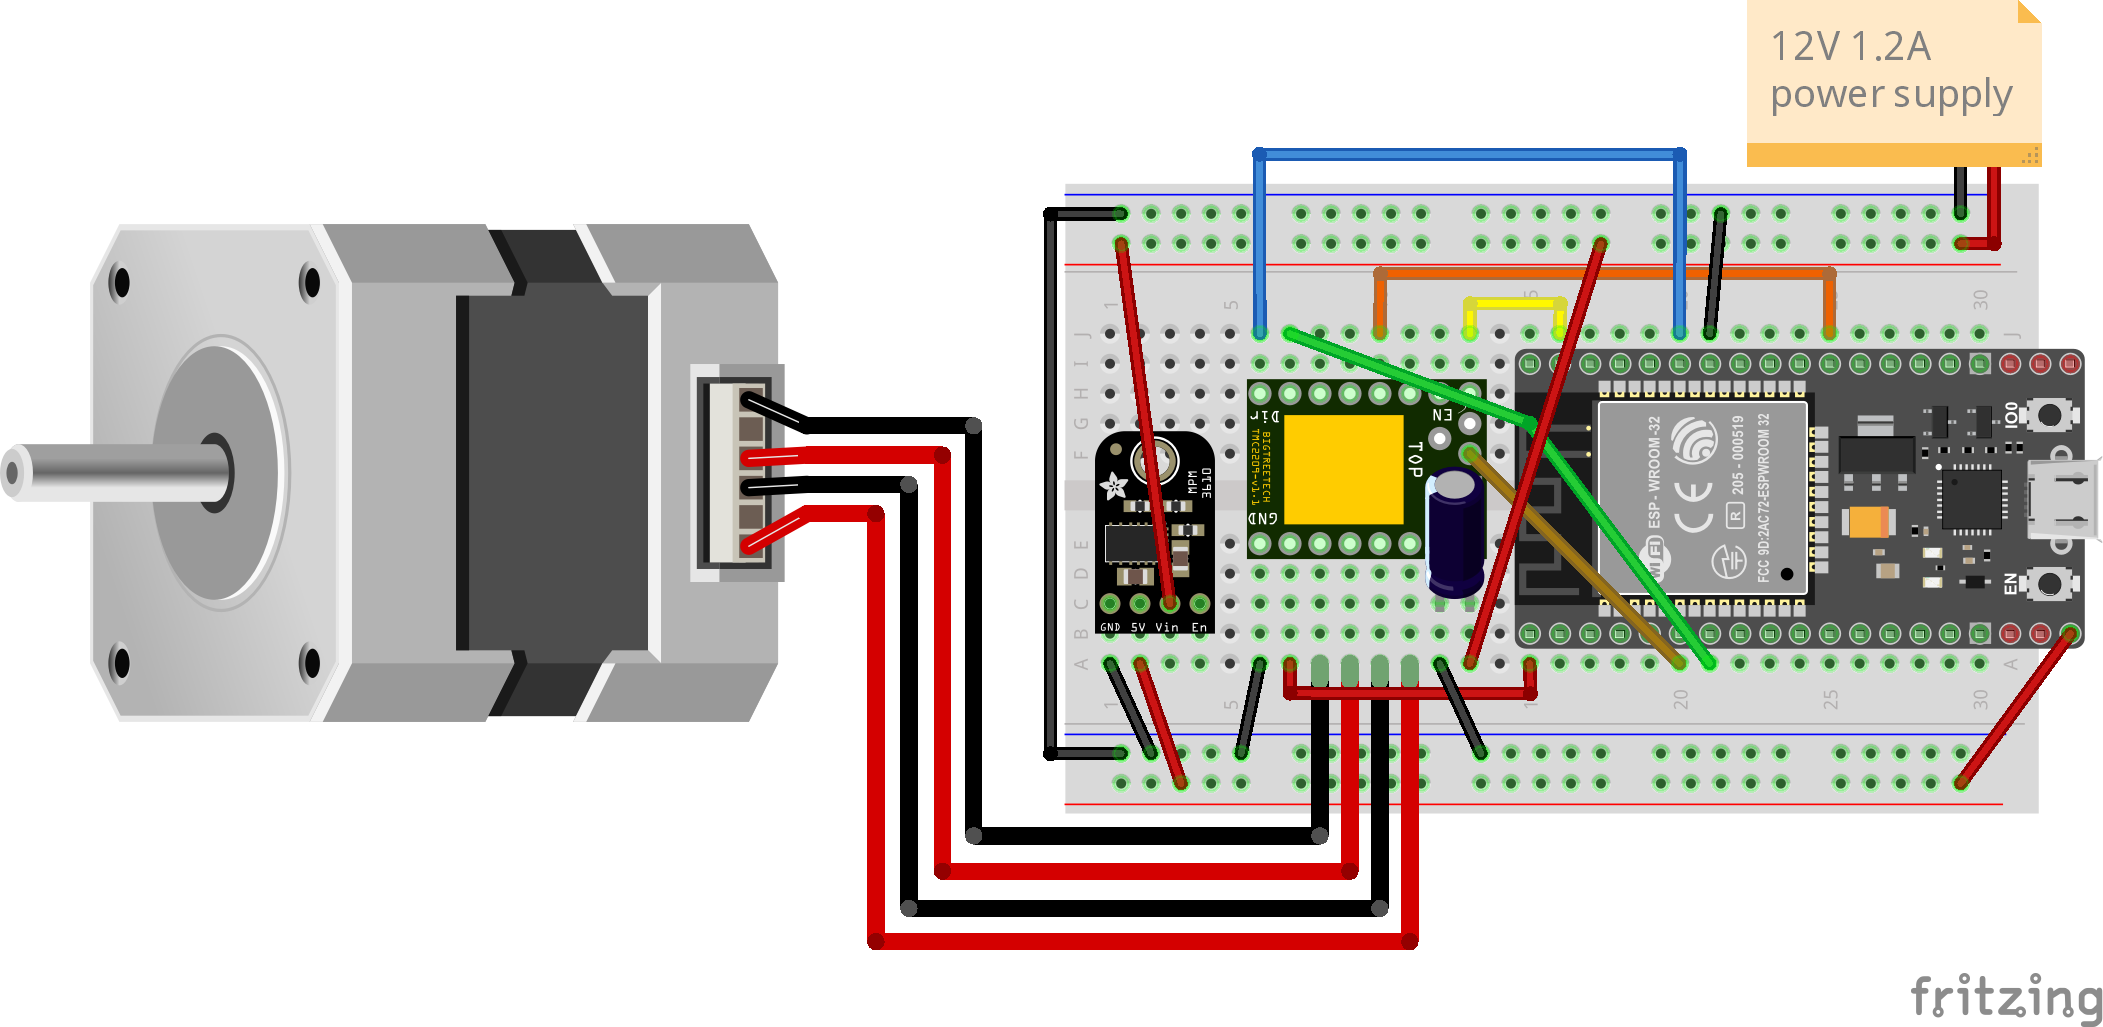
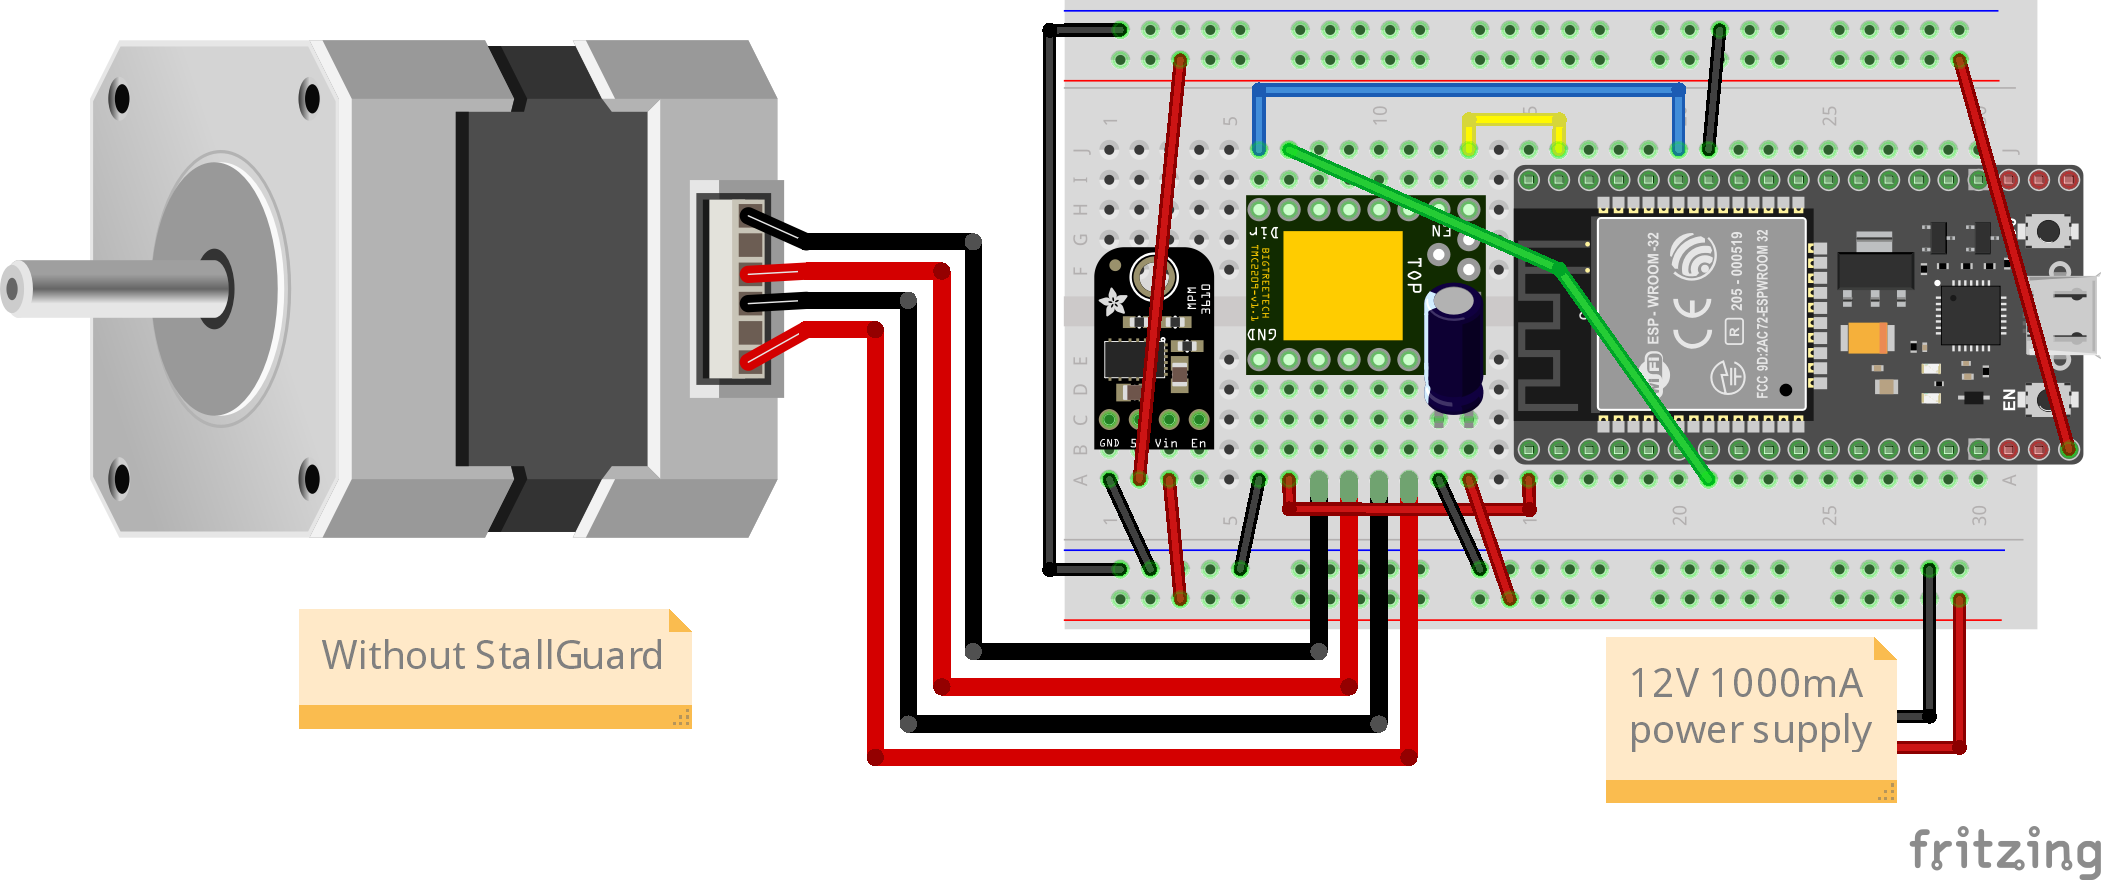
Updated readme and adde resources

diff --git a/README.md b/README.md
@@ -4,64 +4,74 @@ is a rollershutter, blind, shade, window, etc. in [**Home Assistant**](https://w
 cover provides the ability to control your covers via your choice of smarthome hub/system (Alexa, HA, etc.). Currently,
 the ESP32 motorcover interfaces via WiFi/MQTT.
 
-I've seen DIY motorized roller shade/blinds or motorized tilting control for venetian blinds around but not DIY
-motorized honeycomb cellular shade. Commercial available motorized honeycomb cellular shades starts around $300-$400
-per unit but the quality in terms of the speed, noise level, build material, and user expreience is below average.
-So I have decided to retrofit a motor in my cordless honeycomb shades.
+Commercial available motorized honeycomb cellular shades start around $250-$400 per unit but the quality in terms of
+the speed, noise level, build material, and user expreience are below my expectations. On the other hand, high end
+honeycomb shades are too expensive so I've decided to retrofit a motor in my existing cordless honeycomb shades. I've
+seen DIY projects for motorized roller shade/blind or tilting control for venetian blind but not for honeycomb shade.
+I believe it's because honeycomb shade is a heavier cover and, therefore, more challening to lift. This project focuses
+on using powerful (geared) NEMA motors and silent stepper driver TMC2209 to move heavier covers swiftly and silently
+within a reasonable budget.
 
 
 ## Parts List
-The exact parts I used to make 5 motorized shades. It was ~$92 per motorcovers but if you own a 3D printer, some
-wires and screws, it will cost you ~$80 per unit.
+The exact parts I used to make 5 motorized shades. It was **~$92/unit** but if you own a 3D printer, some wires and
+screws, the cost can be lowered to **~$80/unit**. Since I need the motor to fit inside the top compartment of the 
+shades, I had to get the smaller NEMA 11 stepper motors with the 5.18:1 planetary gears to have enough power to lift
+the shades. If you don't need to conceal the motor, you can get bigger and cheaper motors on Amazon for $10-$20/unit +
+free shipping. Note the UART version of the TMC2209 stepper driver comes with UART enabled already so you don't need to
+manually solder the pads underneath.
 
-|Name                         |Cost (incl. tax)|Shipping|Subtotal|Links  |
-|-----------------------------|---------------:|-------:|-------:|:-----:|
-|NEMA 11 bipolar stepper motor|          $33.34|  $33.12| $199.82|[[Stepperonline]](https://www.omc-stepperonline.com/nema-11-stepper-motor-bipolar-l-45mm-w-gear-ratio-5-1-planetary-gearbox-11hs18-0674s-pg5)|
-|ESP32 node mcu               |          $12.10|        |  $60.50|[[Amazon]](https://www.amazon.com/dp/B0718T232Z)|
-|Buck convertor               |           $5.95|   $7.99|  $37.74|[[Mouser]](https://www.mouser.com/ProductDetail/485-4739)|
-|TMC2209 UART stepper driver  |          $34.12|        |  $34.12|[[Amazon]](https://www.amazon.com/gp/product/B07YW7BM68)|
-|Coupling                     |          $14.96|        |  $14.96|[[Amazon]](https://www.amazon.com/gp/product/B07MPFJGZW)|
-|100uF capacitor              |           $6.82|        |   $6.82|[[Amazon]](https://www.amazon.com/gp/product/B07Y3F194W)|
-|Solderless breadboard        |           $6.59|        |   $6.59|[[Amazon]](https://www.amazon.com/gp/product/B07LF71ZTS)|
-|Power supply                 |          $17.51|        |  $35.02|[[Amazon]](https://www.amazon.com/gp/product/B07N18XN84)|
-|Wires                        |          $14.86|        |  $14.86|[[Amazon]](https://www.amazon.com/gp/product/B07Z4W6V6R)|
-|Mounting bracket (Shapeways) |          $30.21|   $9.99|  $40.20|[[File]](resources/mounting_bracket_v3.stl)[[Mirrored File]](resources/mounting_bracket_v3_mirrored.stl)|
-|Screws                       |          $10.00|        |     $10|       |
-|Total                        |                |        | $460.63|       |
+|Item                         |Cost (incl. tax)|Shipping|Subtotal   |Links  |
+|-----------------------------|---------------:|-------:|----------:|:-----:|
+|NEMA 11 bipolar stepper motor|          $33.34|  $33.12|    $199.82|[[Stepperonline]](https://www.omc-stepperonline.com/nema-11-stepper-motor-bipolar-l-45mm-w-gear-ratio-5-1-planetary-gearbox-11hs18-0674s-pg5)|
+|ESP32 node mcu               |          $12.10|        |     $60.50|[[Amazon]](https://www.amazon.com/dp/B0718T232Z)|
+|Buck convertor               |           $5.95|   $7.99|     $37.74|[[Mouser]](https://www.mouser.com/ProductDetail/485-4739)|
+|TMC2209 UART stepper driver  |          $34.12|        |     $34.12|[[Amazon]](https://www.amazon.com/gp/product/B07YW7BM68)|
+|Coupling                     |          $14.96|        |     $14.96|[[Amazon]](https://www.amazon.com/gp/product/B07MPFJGZW)|
+|100uF capacitor              |           $6.82|        |      $6.82|[[Amazon]](https://www.amazon.com/gp/product/B07Y3F194W)|
+|Solderless breadboard        |           $6.59|        |      $6.59|[[Amazon]](https://www.amazon.com/gp/product/B07LF71ZTS)|
+|Power supply                 |          $17.51|        |     $35.02|[[Amazon]](https://www.amazon.com/gp/product/B07N18XN84)|
+|Wires                        |          $14.86|        |     $14.86|[[Amazon]](https://www.amazon.com/gp/product/B07Z4W6V6R)|
+|Mounting bracket (Shapeways) |          $30.21|   $9.99|     $40.20|[[File]](resources/mounting_bracket_v3.stl)[[Mirrored File]](resources/mounting_bracket_v3_mirrored.stl)|
+|Screws                       |          $10.00|        |        $10|       |
+|Total                        |                |        |**$460.63**|       |
 
 
 ## Usage
 ### Connections
-![schematic](images/esp32_motorcover.png)
+You can use this without StallGuard 4. SG4 is a TMC2209 feature that enables the stepper motor to stop in an instance
+when it encounters a resistance. SG4 is convenient for setting the minimum position for the shades, i.e. sensorless homing.
+It might also be useful for protecting pets/children in the use case of motorized windows.
+![stallguard](images/esp32_motorcover.png)
+![no_stallguard](images/esp32_motorcover.png)
 
 ### Flashing firmware
 #### Dependencies
-You will need to add teemuatlut/TMCStepper@^0.7.3, knolleary/PubSubClient@^2.8,	gin66/FastAccelStepper@^0.27.5 to your project.
+You will need to add [TMCStepper](https://github.com/teemuatlut/TMCStepper), [PubSubClient](https://github.com/knolleary/pubsubclient),	[FastAccelStepper](https://github.com/gin66/FastAccelStepper) to your project.
 
 ### WiFi and MQTT
 https://www.home-assistant.io/integrations/cover.mqtt/
-MQTT commands
-0~100 percentage of open position; 0 -> open, 100 -> close
--1 stop
--2 open
--3 close
--4 set min position
--5 set max position
--99 reboot system
+#### MQTT commands
+* 0~100 percentage of position; 0 -> open, 100 -> close
+* -1 stop
+* -2 open
+* -3 close
+* -4 set min position
+* -5 set max position
+* -99 reboot system
 
-### My use case
+### My Use Case
 #### Spring dampening
 
 ## Resources
 ### TMC2209 Info
-TMC2209 datasheet: https://www.trinamic.com/fileadmin/assets/Products/ICs_Documents/TMC2209_Datasheet_V103.pdf
-BigTreeTech TMC2209 schematic: https://github.com/bigtreetech/BIGTREETECH-TMC2209-V1.2/blob/master/Schematic/TMC2209-V1.2.pdf
-BigTreeTech TMC2209 manual: https://github.com/bigtreetech/BIGTREETECH-TMC2209-V1.2/blob/master/manual/TMC2209-V1.2-manual.pdf
-How to connect TMC2209 for UART (stallguard): https://forum.arduino.cc/t/using-a-tmc2209-silent-stepper-motor-driver-with-an-arduino/666992/14
-Explaning TMC2209 settings: https://forum.arduino.cc/t/using-a-tmc2209-silent-stepper-motor-driver-with-an-arduino/666992/25
-
-More explanation on Stallguard: https://gist.github.com/metalinspired/dcfe07ed0b9f42870eb54dcf8e29c126
-
-How to connect UART for stallguard: https://forum.arduino.cc/t/tmcstepper-arduino-tmc2209/956036/9
-
-ESP-now scanning devices: https://circuitcellar.com/research-design-hub/design-solutions/using-esp-now-protocol-part-1/
+* [TMC2209 datasheet](https://www.trinamic.com/fileadmin/assets/Products/ICs_Documents/TMC2209_Datasheet_V103.pdf)
+* [BigTreeTech TMC2209 schematic](https://github.com/bigtreetech/BIGTREETECH-TMC2209-V1.2/blob/master/Schematic/TMC2209-V1.2.pdf)
+* [BigTreeTech TMC2209 manual](https://github.com/bigtreetech/BIGTREETECH-TMC2209-V1.2/blob/master/manual/TMC2209-V1.2-manual.pdf)
+* [Explaning TMC2209 settings](https://forum.arduino.cc/t/using-a-tmc2209-silent-stepper-motor-driver-with-an-arduino/666992/25)
+### StallGuard Info
+* [How to connect TMC2209 for UART (stallguard)](https://forum.arduino.cc/t/using-a-tmc2209-silent-stepper-motor-driver-with-an-arduino/666992/14)
+* [More explanation on Stallguard](https://gist.github.com/metalinspired/dcfe07ed0b9f42870eb54dcf8e29c126)
+* [How to connect UART for stallguard](https://forum.arduino.cc/t/tmcstepper-arduino-tmc2209/956036/9)
+### ESP-now (future feature)
+* [ESP-now scanning devices](https://circuitcellar.com/research-design-hub/design-solutions/using-esp-now-protocol-part-1/)
